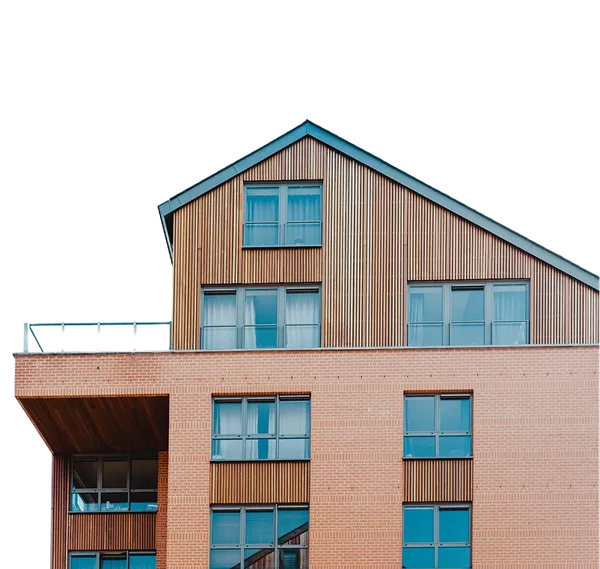
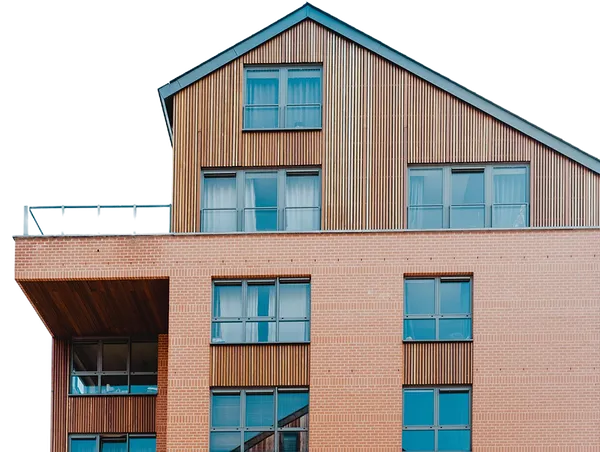
Updates

diff --git a/css/index.min.css b/css/index.min.css
@@ -1,1 +1,1 @@
-*{padding:0;margin:0;border:0}*,:after,:before{box-sizing:border-box}:after,:before{display:inline-block}body,html{height:100%}body{line-height:1;scrollbar-gutter:stable;-ms-text-size-adjust:100%;-moz-text-size-adjust:100%;-webkit-text-size-adjust:100%;-webkit-font-smoothing:antialiased;-moz-osx-font-smoothing:grayscale}button,input,textarea{font-family:inherit;font-size:inherit;line-height:inherit;color:inherit;background-color:transparent}input,textarea{width:100%}label{display:inline-block}button,option,select{cursor:pointer}a{display:inline-block;color:inherit;text-decoration:none}li{list-style:none}img{max-width:100%;height:auto;vertical-align:middle}h1,h2,h3,h4,h5,h6{font-weight:inherit;font-size:inherit}address{font-style:normal}@font-face{font-family:Rubik;font-display:swap;src:url(../assets/fonts/Rubik.woff2) format("woff2");font-weight:400;font-style:normal}@font-face{font-family:rubik;font-display:swap;src:url(../assets/fonts/rubik-semi-bold.woff2) format("woff2");font-weight:400;font-style:normal}@font-face{font-family:Poppins_medium;font-display:swap;src:url(../assets/fonts/Poppins_medium.woff2) format("woff2");font-weight:400;font-style:normal}@font-face{font-family:Poppins;font-display:swap;src:url(../assets/fonts/Poppins.woff2) format("woff2");font-weight:400;font-style:normal}@font-face{font-family:Poppins;font-display:swap;src:url(../assets/fonts/Poppins-semibold.woff2) format("woff2");font-weight:600;font-style:normal}@font-face{font-family:Poppins;font-display:swap;src:url(../assets/fonts/Poppins-medium.woff2) format("woff2");font-weight:500;font-style:normal}@font-face{font-family:Poppins;font-display:swap;src:url(../assets/fonts/Poppins-bold.woff2) format("woff2");font-weight:700;font-style:normal}@font-face{font-family:iconfont;font-display:swap;src:url(../assets/fonts/iconfont.woff2?6eb25e4e93d871e60afaaca793b40817) format("woff2")}[class*="--icon-"]:before{font-family:iconfont}[class*="--icon-arrow_circle"]:before{content:"\f101"}[class*="--icon-facebook"]:before{content:"\f102"}[class*="--icon-insta"]:before{content:"\f103"}[class*="--icon-insta_"]:before{content:"\f104"}[class*="--icon-youtube"]:before{content:"\f105"}:root{--font-family:"Poppins", sans-serif;--font-size:1rem;--font-rubik:"Rubik", sans-serif;--color-text:#73788c;--color-textcard:#a6a6a6;--color-title:#054457;--color-area:#021b22;--color-label:#69b99d;--color-button:#fefeff;--color-border:#e0e0e3;--color-test:#ac130b;--color-text-footer:#575757;--bg-main-color:#fefeff;--bg-second-color:#eee;--bg-button:#f6f6f6;--bg-label:#f6f6f6;--bg-advantes:#f5f5f5;--bg-footer:#ddd;--color-hover:#097b5d;--color-border:#dedcda}body{color:var(--color-text);font-family:var(--font-family);font-size:var(--font-size);min-width:20rem}[data-fls-scrolllock] body{overflow:hidden;touch-action:none;overscroll-behavior:none}.wrapper{min-height:100%;display:flex;flex-direction:column;overflow:clip}.wrapper>main{flex:1 1 auto}.wrapper>*{min-width:0}[class*=__container]{max-width:76.625rem;margin:0 auto;padding-left:.9375rem;padding-right:.9375rem}.hero{border:.0625rem solid green}.hero__container{display:flex;min-height:50.375rem;align-items:center;background-color:var(--bg-label);border:.125rem solid #0606e6}.hero__content{flex:0 0 50%}.hero__block-img{flex:0 0 60%;margin-top:-5rem}.hero__image{max-width:100%;height:auto}.titleblock__title--big span{display:block}.discover__container{margin-top:6.8125rem;margin-bottom:7.625rem}.discover__block-text{background-color:green}.discover-card__content{padding-top:2.5625rem;display:flex;flex-direction:row}.advantes-block{border:.0625rem solid green}.advantes-block__container{border:.125rem solid #0606e6;background-color:var(--bg-label)}.advantes-block__titleblock{padding-top:5rem;padding-bottom:3rem}.cards{padding-bottom:5rem}.cards__content{display:grid;gap:2rem;grid-template-columns:repeat(auto-fill,minmax(min(23.125rem,100%),1fr))}.about-us{border:.0625rem solid green}.about-us__container{margin-top:13.6875rem;margin-bottom:7.5rem;border:.125rem solid #0606e6}.about-us__content{display:flex;align-items:center;gap:3.5rem;width:100%}.about-us__image{flex:0 0 calc(50% - 1.25rem);max-width:calc(50% - 1.25rem);width:100%}.about-us__img{width:100%;height:auto;object-fit:cover}.about-us .titleblock{margin-bottom:3rem}.about-say{border:.0625rem solid green}.about-say__container{border:.125rem solid #0606e6;margin-bottom:7.6875rem}.cards-say{display:flex;gap:2rem;margin-top:2.8125rem}.titleblock{display:flex;flex-direction:column;align-items:flex-start;gap:1rem;width:100%}.titleblock--big{max-width:36.875rem}.titleblock--button{display:flex;flex-direction:row;justify-content:space-between;align-items:center;width:100%}.titleblock__label{display:inline-flex;justify-content:center;align-items:center;font-family:var(--font-family);font-weight:500;font-size:1.125rem;line-height:1.44;letter-spacing:.0375rem;text-transform:uppercase;color:var(--color-label);padding:.75rem 1.5rem;background-color:var(--bg-button)}.titleblock__label--big{margin-bottom:1rem}.titleblock__title{font-family:var(--font-rubik);color:var(--color-title);font-weight:600;line-height:1.16}.titleblock__title--big{max-width:36.25rem;margin-bottom:.5rem;line-height:1.17}.titleblock .titleblock__title--big span{display:block}.titleblock__text{font-family:var(--font-family);color:var(--color-text);font-size:1rem;line-height:1.7;letter-spacing:.0375rem}.titleblock__text--button{max-width:34.375rem}[data-fls-spollers] summary{list-style:none}[data-fls-spollers] summary::-webkit-details-marker,[data-fls-spollers] summary::marker{display:none}.spollers{display:grid;gap:.9375rem}.spollers__item{font-size:1.25rem}.spollers__title{width:100%;cursor:default;text-align:left;border:.0625rem solid #eee;padding:.625rem .9375rem;border-radius:.3125rem;position:relative;list-style:none}.spollers__title::-webkit-details-marker,.spollers__title::marker{display:none}.--spoller-init .spollers__title{cursor:pointer}.--spoller-init .spollers__title:after,.--spoller-init .spollers__title:before{content:"";position:absolute;right:.625rem;top:50%;background-color:#000;height:.125rem;width:.9375rem;transition:transform .5s ease 0s}.--spoller-init .spollers__title:before{transform:translate(-75%,-50%) rotate(40deg)}.--spoller-init .spollers__title:after{transform:translateY(-50%) rotate(-40deg)}.--spoller-init .spollers__title.--spoller-active:before{transform:translateX(-75%) rotate(-40deg)}.--spoller-init .spollers__title.--spoller-active:after{transform:rotate(40deg)}.spollers__body{padding:1.25rem;border-radius:.3125rem;border:.0625rem solid #eee}.menu__list{display:flex;flex-wrap:wrap;gap:4.0625rem;border:.0625rem solid #0643de}.menu__link{font-family:var(--font-family);color:var(--color-area);font-weight:500;font-size:1.125rem;line-height:1.44;letter-spacing:.03rem;position:relative;transition:color .5s}.menu__link:after{content:"";position:absolute;left:50%;bottom:0;width:0;height:.03125rem;background-color:var(--color-area);transition:width .3s,left .3s}.menu__link--active:after{width:100%;left:0;background-color:var(--color-area)}.icon-menu{display:none}.header{position:fixed;top:2rem;border:.125rem solid green;left:0;right:0;z-index:50;pointer-events:none;transition:translate .8s,top .8s}.header__container{border:.0625rem solid #0643de;pointer-events:auto}.header__body{display:flex;justify-content:space-between;gap:4.6875rem;align-items:center;padding:.4375rem 0;position:relative;background-color:var(--bg-label)}.header__logo{height:auto}.header__blockbutton{display:flex}[data-fls-header-scroll].--header-scroll{position:sticky;top:0;right:0;left:0;z-index:50}[data-fls-header-scroll-show].--header-scroll{transition:translate .3s;translate:0 -100%}[data-fls-header-scroll-show].--header-show{translate:0 0}.footer{font-family:var(--font-family)}.footer,.footer__container{background-color:var(--bg-footer)}.footer__container{margin-top:4.875rem}.footer__body{border:.0625rem solid red;display:flex}.body-footer{display:flex;justify-content:space-between}.body-footer__content{display:flex;background-color:#b3e87b}.body-footer__menus{display:flex;flex-grow:1;flex-wrap:wrap;background-color:#ac7d7d}.body-footer__menu{flex-grow:1;border:.0625rem solid #adff2f}.body-footer__title{color:var(--color-title);font-weight:500;font-size:1.25rem;line-height:1.4;letter-spacing:.0625rem}.--spoller-init .body-footer__title{display:flex;gap:.4375rem;align-items:center}.--spoller-init .body-footer__title:after{font-size:.625rem;rotate:180deg;color:var(--text-default);transition:rotate .3s;content:"\f112";font-family:iconfont}.--spoller-active .body-footer__title:after{rotate:0deg}.body-footer__item:not(:last-child){margin-bottom:1rem}.body-footer__link{color:var(--color-text-footer);font-family:var(--font-family);font-size:1rem;line-height:1.5;font-weight:500;transition:color .3s}.content-footer{display:flex;flex-direction:column}.content-footer__form,.form-contacts__header{display:flex;flex-direction:column;gap:1rem}.form-contacts__label{max-width:22.5rem}.form-contacts__title{font-weight:500;font-size:1.25rem;line-height:1.4}.form-contacts__body{display:flex;justify-content:space-between;border:.125rem solid var(--color-textcard);align-items:center}.form-contacts__line{font-weight:400;font-size:1rem;line-height:1.63;letter-spacing:.03rem;padding-left:1.0625rem}.social-block__social{display:flex;flex-direction:column;gap:1rem;text-align:center}.social-block__title{color:var(--color-title);font-weight:500;font-size:1.25rem;line-height:1.4;letter-spacing:.0625rem;padding-bottom:.625rem}.bottom-footer{display:flex;justify-content:space-between;align-items:center;gap:1.25rem}.bottom-footer__arrow{background-color:var(--bg-main-color);display:flex;gap:1.25rem;border:.125rem solid var(--color-textcard)}input[type=email],input[type=tel],input[type=text],textarea{-webkit-appearance:none;-moz-appearance:none;appearance:none}.input{border-radius:0!important;width:100%;display:block;padding:.625rem;border:.0625rem solid #eee;caret-color:inherit}.input[placeholder]:not([data-fls-placeholder-nohiden])::placeholder{transition:opacity .3s}.input[placeholder]:not([data-fls-placeholder-nohiden]):focus::placeholder{opacity:0}textarea.input{resize:vertical;padding:0}.button{display:inline-flex;justify-content:center;align-items:center;white-space:nowrap;font-family:var(--font-family);font-weight:500;line-height:1.5;color:var(--color-label);background-color:var(--color-button);padding:1rem 3rem;border:.0625rem solid var(--color-border);transition:all .5s}.button--fw{width:100%}.button--login{color:var(--color-button);background-color:var(--color-label)}.button--learn{padding:.75rem 1.5rem;gap:.5rem;color:var(--color-label);background-color:var(--bg-button)}.button--learn:after{content:"\f101";font-family:iconfont;font-size:1.25rem;color:inherit;transition:transform .3s ease}.button--send{padding:.75rem 7.625rem;border:.0625rem solid var(--color-label);color:var(--color-label);background-color:var(--bg-button)}.button--learn-big{padding:1.125rem 3rem;color:var(--color-button);background-color:var(--color-label);box-shadow:1.5rem 1.5rem 4.0625rem 0 rgba(81,140,119,.24)}.button--to-top{gap:1.25rem;font-size:1.25rem;color:var(--color-label);background-color:var(--bg-button)}.button--to-top:after{content:"\f101";font-family:iconfont;font-size:1.25rem;color:inherit;transition:transform .3s ease}.propertycard{display:flex;flex-direction:column;align-items:stretch;border:.0625rem solid var(--color-border);font-family:var(--font-family)}.propertycard__link-image{aspect-ratio:344/238}.propertycard__image{width:100%;height:100%;object-fit:cover}.propertycard__body{display:flex;flex-direction:column;gap:.125rem;flex-grow:1}.propertycard__title{color:var(--color-title);font-weight:600;line-height:1.33;align-items:flex-start;min-height:3.9rem}.propertycard__text{color:var(--color-textcard);font-weight:400;font-size:1rem;line-height:1.63;margin-bottom:1rem}.propertycard__details{margin-bottom:.5rem}.propertycard__button{border:.0625rem solid var(--color-label);color:var(--color-label);font-size:1rem;padding:.75rem 3rem;font-weight:500;line-height:1.5;transition:all .3s;text-align:center}.details-price{display:flex;flex-direction:row}.details-price__price{font-family:var(--font-family);color:var(--color-label);font-weight:600;font-size:1.5rem;line-height:1.33}.area-price{display:flex;flex-direction:row;gap:.625rem;align-items:center;padding:.25rem .5rem;background-color:var(--bg-label);font-family:var(--font-family);font-weight:400;font-size:1rem;line-height:1.5}.area-price__area-value{color:var(--color-area)}.area-price__area-label{color:var(--color-textcard)}.advantes{background-color:var(--bg-advantes) 70%;font-family:var(--font-family)}.advantes__container{display:flex;flex-direction:column;gap:1rem}.advantes__icon{width:3.375rem;height:3.375rem;display:flex;align-items:center;justify-content:center}.advantes__icon img{width:2.8125rem;height:2.8125rem}.advantes__title{font-weight:700;line-height:1.36;letter-spacing:.02rem;color:var(--color-title)}.advantes__subtitle{color:var(--color-text);font-weight:400;font-size:1rem;line-height:1.63;letter-spacing:.03rem}.about{border:.0625rem solid var(--color-border);font-family:var(--font-family)}.about__container{gap:1.5rem}.about__body,.about__container{display:flex;flex-direction:column}.about__body{gap:1rem}.about__title{color:var(--color-area);font-weight:600;font-size:1.125rem;line-height:1.56}.about__text{color:var(--color-area);font-weight:400;font-size:1rem;line-height:1.5}.author-reviews{display:flex;flex-direction:row;gap:.75rem}.author-reviews__body{display:flex;flex-direction:column;gap:.25rem}.author-reviews__name{font-family:Nunito Sans,sans-serif;font-weight:600;font-size:1rem;line-height:163%;letter-spacing:.03em;color:#0b2e29}.author-reviews__position{color:var(--color-text);font-weight:400;font-size:.75rem;line-height:1.83;letter-spacing:.04rem}@media (max-width:70.4375rem){.menu__list{flex-wrap:nowrap;gap:1.5rem}.header__logo{margin-right:.125rem}.button{padding:.875rem 1.875rem;font-size:.875rem}}@media (max-width:67em){.details-price{flex-direction:column}.area-price{padding:0 .5rem}}@media (max-width:67em) and (width < 20em){.details-price{gap:.875rem}}@media (max-width:62em){.menu__list{flex-wrap:nowrap;gap:1.125rem}}@media (max-width:54.5rem){.button{padding-top:.625rem;padding-bottom:.625rem}}@media (max-width:54.5rem) and (width < 20em){.button{padding-left:.5rem;padding-right:.5rem}}@media (max-width:53.0625rem){.menu__link{font-size:1rem}}@media (max-width:48em) and (any-hover:none){.icon-menu{cursor:default}}@media (max-width:48em){.hero__container{gap:.625rem;justify-content:center;min-height:auto;padding-top:9.0625rem}.discover-card__content,.hero__container,.titleblock{flex-direction:column}.titleblock{display:flex;align-items:flex-start}.menu{flex-grow:1}.menu__body{height:100svh;left:100%;overflow:auto;padding:6.25rem 1.5625rem 1.875rem .9375rem;background-color:rgba(238,240,240,.8)}.menu__body,.menu__body:before{position:fixed;width:100%;top:0;transition:left .3s}.menu__body:before{content:"";height:4.375rem;left:-100%;z-index:2}[data-fls-menu-open] .menu__body,[data-fls-menu-open] .menu__body:before{left:0}.menu__list{gap:.9375rem 1.25rem;flex-direction:column;align-items:flex-end}.menu__link{font-size:1.25rem}.icon-menu{display:block;position:relative;width:1.875rem;height:1.125rem;z-index:5}.icon-menu span,.icon-menu:after,.icon-menu:before{content:"";transition:all .3s ease 0s;right:0;position:absolute;width:100%;height:.125rem;background-color:var(--color-area)}.icon-menu:before{top:0}.icon-menu:after{bottom:0}.icon-menu span{top:calc(50% - .0625rem)}[data-fls-menu-open] .icon-menu span{width:0}[data-fls-menu-open] .icon-menu:before{top:calc(50% - .0625rem);transform:rotate(-45deg)}[data-fls-menu-open] .icon-menu:after{bottom:calc(50% - .0625rem);transform:rotate(45deg)}.header{top:.9375rem}.header__body{gap:2.1875rem;padding:.3125rem}.body-footer__menus{justify-content:center}.bottom-footer,.content-footer{align-items:center;text-align:center}.bottom-footer{flex-direction:column;justify-content:center}.propertycard__title{min-height:1.95rem}.details-price{flex-direction:column}}@media (max-width:31.25em){.body-footer__menu,.body-footer__menus{flex-direction:column;align-items:center}.body-footer__menu{display:flex;justify-content:center;text-align:center}}@media (width < 20em){.discover-card__content{gap:1.25rem}.titleblock__title,.titleblock__title--big{font-size:2.25rem}.header__blockbutton{gap:.125rem}.body-footer{gap:6.25rem}.body-footer__menus{row-gap:1.25rem}.body-footer__list{padding-top:.875rem}.content-footer{gap:.875rem}.button{font-size:.875rem}.propertycard{padding:.75rem;gap:.75rem}.propertycard__title{font-size:1.25rem}.details-price{gap:1rem}.advantes__container{padding:1.125rem}.advantes__title{font-size:1.25rem}.about{padding:1rem}}@media (max-width:54.5rem) and (width >= 76.625em){.button{padding-left:1.25rem;padding-right:1.25rem}}@media (max-width:67em) and (width >= 76.625em){.details-price{gap:1rem}}@media (width >= 20em) and (width < 76.625em){.discover-card__content{gap:clamp(1.25rem,.94095rem + 1.54525vw,2.125rem)}.titleblock__title{font-size:clamp(2.25rem,1.9851rem + 1.3245vw,3rem)}.titleblock__title--big{font-size:clamp(2.25rem,1.6319rem + 3.09051vw,4rem)}.header__blockbutton{gap:clamp(.125rem,.01462rem + .55188vw,.4375rem)}.body-footer{gap:clamp(6.25rem,5.41115rem + 4.19426vw,8.625rem)}.body-footer__menus{row-gap:clamp(1.25rem,-1.79636rem + 15.23179vw,9.875rem)}.body-footer__list{padding-top:clamp(.875rem,.83085rem + .22075vw,1rem)}.content-footer{gap:clamp(.875rem,.74255rem + .66225vw,1.25rem)}.button{font-size:clamp(.875rem,.83085rem + .22075vw,1rem)}.propertycard{padding:clamp(.75rem,.6617rem + .4415vw,1rem);gap:clamp(.75rem,.6617rem + .4415vw,1rem)}.propertycard__title{font-size:clamp(1.25rem,1.1617rem + .4415vw,1.5rem)}.details-price{gap:clamp(1rem,.6468rem + 1.766vw,2rem)}.advantes__container{padding:clamp(1.125rem,1.01462rem + .55188vw,1.4375rem)}.advantes__title{font-size:clamp(1.25rem,1.1617rem + .4415vw,1.5rem)}.about{padding:clamp(1rem,.8234rem + .883vw,1.5rem)}}@media (min-width:48em){.menu{position:relative;z-index:5}.header{top:3rem;display:flex;justify-content:center}}@media (max-width:54.5rem) and (width >= 20em) and (width < 76.625em){.button{padding-left:clamp(.5rem,.2351rem + 1.3245vw,1.25rem);padding-right:clamp(.5rem,.2351rem + 1.3245vw,1.25rem)}}@media (max-width:67em) and (width >= 20em) and (width < 76.625em){.details-price{gap:clamp(.875rem,.83085rem + .22075vw,1rem)}}@media (width >= 76.625em){.discover-card__content{gap:2.125rem}.titleblock__title{font-size:3rem}.titleblock__title--big{font-size:4rem}.header__blockbutton{gap:.4375rem}.body-footer{gap:8.625rem}.body-footer__menus{row-gap:9.875rem}.body-footer__list{padding-top:1rem}.content-footer{gap:1.25rem}.button{font-size:1rem}.propertycard{padding:1rem;gap:1rem}.propertycard__title{font-size:1.5rem}.details-price{gap:2rem}.advantes__container{padding:1.4375rem}.advantes__title{font-size:1.5rem}.about{padding:1.5rem}}@media (any-hover:hover){.menu__link:hover{color:var(--color-hover)}.menu__link:hover:after{width:100%;left:0;background-color:var(--color-hover)}.button--login:hover,.button:hover{box-shadow:0 0 .75rem var(--color-label)}.button--learn-big:hover,.button--login:hover,.button:hover{color:var(--color-button);background-color:var(--color-hover)}.propertycard__button:hover{background-color:var(--color-label);color:var(--color-button);box-shadow:0 0 .75rem var(--color-label)}}@media (any-hover:hover),(pointer:fine){.body-footer__link:hover{color:var(--color-hover)}.propertycard__link-title:hover{text-decoration:underline;text-decoration-thickness:.125rem}}
+*{padding:0;margin:0;border:0}*,:after,:before{box-sizing:border-box}:after,:before{display:inline-block}body,html{height:100%}body{line-height:1;scrollbar-gutter:stable;-ms-text-size-adjust:100%;-moz-text-size-adjust:100%;-webkit-text-size-adjust:100%;-webkit-font-smoothing:antialiased;-moz-osx-font-smoothing:grayscale}button,input,textarea{font-family:inherit;font-size:inherit;line-height:inherit;color:inherit;background-color:transparent}input,textarea{width:100%}label{display:inline-block}button,option,select{cursor:pointer}a{display:inline-block;color:inherit;text-decoration:none}li{list-style:none}img{max-width:100%;height:auto;vertical-align:middle}h1,h2,h3,h4,h5,h6{font-weight:inherit;font-size:inherit}address{font-style:normal}@font-face{font-family:Rubik;font-display:swap;src:url(../assets/fonts/Rubik.woff2) format("woff2");font-weight:400;font-style:normal}@font-face{font-family:rubik;font-display:swap;src:url(../assets/fonts/rubik-semi-bold.woff2) format("woff2");font-weight:400;font-style:normal}@font-face{font-family:Poppins_medium;font-display:swap;src:url(../assets/fonts/Poppins_medium.woff2) format("woff2");font-weight:400;font-style:normal}@font-face{font-family:Poppins;font-display:swap;src:url(../assets/fonts/Poppins.woff2) format("woff2");font-weight:400;font-style:normal}@font-face{font-family:Poppins;font-display:swap;src:url(../assets/fonts/Poppins-semibold.woff2) format("woff2");font-weight:600;font-style:normal}@font-face{font-family:Poppins;font-display:swap;src:url(../assets/fonts/Poppins-medium.woff2) format("woff2");font-weight:500;font-style:normal}@font-face{font-family:Poppins;font-display:swap;src:url(../assets/fonts/Poppins-bold.woff2) format("woff2");font-weight:700;font-style:normal}@font-face{font-family:iconfont;font-display:swap;src:url(../assets/fonts/iconfont.woff2?6eb25e4e93d871e60afaaca793b40817) format("woff2")}[class*="--icon-"]:before{font-family:iconfont}[class*="--icon-arrow_circle"]:before{content:"\f101"}[class*="--icon-facebook"]:before{content:"\f102"}[class*="--icon-insta"]:before{content:"\f103"}[class*="--icon-insta_"]:before{content:"\f104"}[class*="--icon-youtube"]:before{content:"\f105"}:root{--font-family:"Poppins", sans-serif;--font-size:1rem;--font-rubik:"Rubik", sans-serif;--color-text:#73788c;--color-textcard:#a6a6a6;--color-title:#054457;--color-area:#021b22;--color-label:#69b99d;--color-button:#fefeff;--color-border:#e0e0e3;--color-test:#ac130b;--color-text-footer:#575757;--bg-main-color:#fefeff;--bg-second-color:#eee;--bg-button:#f6f6f6;--bg-label:#f6f6f6;--bg-advantes:#f5f5f5;--bg-footer:#ddd;--color-hover:#097b5d;--color-border:#dedcda}body{color:var(--color-text);font-family:var(--font-family);font-size:var(--font-size);min-width:20rem}[data-fls-scrolllock] body{overflow:hidden;touch-action:none;overscroll-behavior:none}.wrapper{min-height:100%;display:flex;flex-direction:column;overflow:clip}.wrapper>main{flex:1 1 auto}.wrapper>*{min-width:0}[class*=__container]{max-width:76.625rem;margin:0 auto;padding-left:.9375rem;padding-right:.9375rem}.hero__container{display:flex;align-items:center;background-color:var(--bg-label);padding-top:15.625rem}.hero__content{flex:0 0 50%}.hero__block-img{flex:0 0 70%}.hero__image{max-width:100%;height:auto}.titleblock__title--big span{display:block}.discover__container{margin-top:6.25rem;margin-bottom:7.625rem}.discover__block-text{background-color:green}.discover-card__content{padding-top:2.5625rem;display:flex;flex-direction:row}.advantes-block{border:.0625rem solid green}.advantes-block__container{border:.125rem solid #0606e6;background-color:var(--bg-label)}.advantes-block__titleblock{padding-top:5rem;padding-bottom:3rem}.cards{padding-bottom:5rem}.cards__content{display:grid;gap:2rem;grid-template-columns:repeat(auto-fill,minmax(min(23.125rem,100%),1fr))}.about-us{border:.0625rem solid green}.about-us__container{margin-top:13.6875rem;margin-bottom:7.5rem;border:.125rem solid #0606e6}.about-us__content{display:flex;align-items:center;gap:3.5rem;width:100%}.about-us__image{flex:0 0 calc(50% - 1.25rem);max-width:calc(50% - 1.25rem);width:100%}.about-us__img{width:100%;height:auto;object-fit:cover}.about-us .titleblock{margin-bottom:3rem}.about-say{border:.0625rem solid green}.about-say__container{border:.125rem solid #0606e6;margin-bottom:7.6875rem}.cards-say{display:flex;gap:2rem;margin-top:2.8125rem}.titleblock{display:flex;flex-direction:column;align-items:flex-start;gap:1rem;width:100%}.titleblock--big{max-width:36.875rem}.titleblock--button{display:flex;flex-direction:row;justify-content:space-between;align-items:center;width:100%}.titleblock__label{display:inline-flex;justify-content:center;align-items:center;font-family:var(--font-family);font-weight:500;font-size:1.125rem;line-height:1.44;letter-spacing:.0375rem;text-transform:uppercase;color:var(--color-label);padding:.75rem 1.5rem;background-color:var(--bg-button)}.titleblock__label--big{margin-bottom:1rem;background-color:var(--bg-main-color)}.titleblock__title{font-family:var(--font-rubik);color:var(--color-title);font-weight:600;line-height:1.16}.titleblock__title--big{max-width:36.25rem;white-space:nowrap;margin-bottom:.5rem;line-height:1.17}.titleblock .titleblock__title--big span{display:block}.titleblock__text{font-family:var(--font-family);color:var(--color-text);font-size:1rem;line-height:1.7;letter-spacing:.0375rem}.titleblock__text--button{max-width:34.375rem}[data-fls-spollers] summary{list-style:none}[data-fls-spollers] summary::-webkit-details-marker,[data-fls-spollers] summary::marker{display:none}.spollers{display:grid;gap:.9375rem}.spollers__item{font-size:1.25rem}.spollers__title{width:100%;cursor:default;text-align:left;border:.0625rem solid #eee;padding:.625rem .9375rem;border-radius:.3125rem;position:relative;list-style:none}.spollers__title::-webkit-details-marker,.spollers__title::marker{display:none}.--spoller-init .spollers__title{cursor:pointer}.--spoller-init .spollers__title:after,.--spoller-init .spollers__title:before{content:"";position:absolute;right:.625rem;top:50%;background-color:#000;height:.125rem;width:.9375rem;transition:transform .5s ease 0s}.--spoller-init .spollers__title:before{transform:translate(-75%,-50%) rotate(40deg)}.--spoller-init .spollers__title:after{transform:translateY(-50%) rotate(-40deg)}.--spoller-init .spollers__title.--spoller-active:before{transform:translateX(-75%) rotate(-40deg)}.--spoller-init .spollers__title.--spoller-active:after{transform:rotate(40deg)}.spollers__body{padding:1.25rem;border-radius:.3125rem;border:.0625rem solid #eee}.menu__list{display:flex;flex-wrap:wrap;gap:4.0625rem;border:.0625rem solid #0643de}.menu__link{font-family:var(--font-family);color:var(--color-area);font-weight:500;font-size:1.125rem;line-height:1.44;letter-spacing:.03rem;position:relative;transition:color .5s}.menu__link:after{content:"";position:absolute;left:50%;bottom:0;width:0;height:.03125rem;background-color:var(--color-area);transition:width .3s,left .3s}.menu__link--active:after{width:100%;left:0;background-color:var(--color-area)}.icon-menu{display:none}.header{position:fixed;top:2rem;border:.125rem solid green;left:0;right:0;z-index:50;pointer-events:none;transition:translate .8s,top .8s}.header__container{border:.0625rem solid #0643de;pointer-events:auto}.header__body{display:flex;justify-content:space-between;gap:4.6875rem;align-items:center;padding:.4375rem 0;position:relative;background-color:var(--bg-label)}.header__logo{height:auto}.header__blockbutton{display:flex}[data-fls-header-scroll].--header-scroll{position:sticky;top:0;right:0;left:0;z-index:50}[data-fls-header-scroll-show].--header-scroll{transition:translate .3s;translate:0 -100%}[data-fls-header-scroll-show].--header-show{translate:0 0}.footer{font-family:var(--font-family)}.footer,.footer__container{background-color:var(--bg-footer)}.footer__container{margin-top:4.875rem}.footer__body{border:.0625rem solid red;display:flex}.body-footer{display:flex;justify-content:space-between}.body-footer__content{display:flex;background-color:#b3e87b}.body-footer__menus{display:flex;flex-grow:1;flex-wrap:wrap;background-color:#ac7d7d}.body-footer__menu{flex-grow:1;border:.0625rem solid #adff2f}.body-footer__title{color:var(--color-title);font-weight:500;font-size:1.25rem;line-height:1.4;letter-spacing:.0625rem}.--spoller-init .body-footer__title{display:flex;gap:.4375rem;align-items:center}.--spoller-init .body-footer__title:after{font-size:.625rem;rotate:180deg;color:var(--text-default);transition:rotate .3s;content:"\f112";font-family:iconfont}.--spoller-active .body-footer__title:after{rotate:0deg}.body-footer__item:not(:last-child){margin-bottom:1rem}.body-footer__link{color:var(--color-text-footer);font-family:var(--font-family);font-size:1rem;line-height:1.5;font-weight:500;transition:color .3s}.content-footer{display:flex;flex-direction:column}.content-footer__form,.form-contacts__header{display:flex;flex-direction:column;gap:1rem}.form-contacts__label{max-width:22.5rem}.form-contacts__title{font-weight:500;font-size:1.25rem;line-height:1.4}.form-contacts__body{display:flex;justify-content:space-between;border:.125rem solid var(--color-textcard);align-items:center}.form-contacts__line{font-weight:400;font-size:1rem;line-height:1.63;letter-spacing:.03rem;padding-left:1.0625rem}.social-block__social{display:flex;flex-direction:column;gap:1rem;text-align:center}.social-block__title{color:var(--color-title);font-weight:500;font-size:1.25rem;line-height:1.4;letter-spacing:.0625rem;padding-bottom:.625rem}.bottom-footer{display:flex;justify-content:space-between;align-items:center;gap:1.25rem}.bottom-footer__arrow{background-color:var(--bg-main-color);display:flex;gap:1.25rem;border:.125rem solid var(--color-textcard)}input[type=email],input[type=tel],input[type=text],textarea{-webkit-appearance:none;-moz-appearance:none;appearance:none}.input{border-radius:0!important;width:100%;display:block;padding:.625rem;border:.0625rem solid #eee;caret-color:inherit}.input[placeholder]:not([data-fls-placeholder-nohiden])::placeholder{transition:opacity .3s}.input[placeholder]:not([data-fls-placeholder-nohiden]):focus::placeholder{opacity:0}textarea.input{resize:vertical;padding:0}.button{display:inline-flex;justify-content:center;align-items:center;white-space:nowrap;font-family:var(--font-family);font-weight:500;line-height:1.5;color:var(--color-label);background-color:var(--color-button);padding:1rem 3rem;border:.0625rem solid var(--color-border);transition:all .5s}.button--fw{width:100%}.button--login{color:var(--color-button);background-color:var(--color-label)}.button--learn{padding:.75rem 1.5rem;gap:.5rem;color:var(--color-label);background-color:var(--bg-button)}.button--learn:after{content:"\f101";font-family:iconfont;font-size:1.25rem;color:inherit;transition:transform .3s ease}.button--send{padding:.75rem 7.625rem;border:.0625rem solid var(--color-label);color:var(--color-label);background-color:var(--bg-button)}.button--learn-big{padding:1.125rem 3rem;color:var(--color-button);background-color:var(--color-label);box-shadow:1.5rem 1.5rem 4.0625rem 0 rgba(81,140,119,.24)}.button--to-top{gap:1.25rem;font-size:1.25rem;color:var(--color-label);background-color:var(--bg-button)}.button--to-top:after{content:"\f101";font-family:iconfont;font-size:1.25rem;color:inherit;transition:transform .3s ease}.propertycard{display:flex;flex-direction:column;align-items:stretch;border:.0625rem solid var(--color-border);font-family:var(--font-family)}.propertycard__link-image{aspect-ratio:344/238}.propertycard__image{width:100%;height:100%;object-fit:cover}.propertycard__body{display:flex;flex-direction:column;gap:.125rem;flex-grow:1}.propertycard__title{color:var(--color-title);font-weight:600;line-height:1.33;align-items:flex-start;min-height:3.9rem}.propertycard__text{color:var(--color-textcard);font-weight:400;font-size:1rem;line-height:1.63;margin-bottom:1rem}.propertycard__details{margin-bottom:.5rem}.propertycard__button{border:.0625rem solid var(--color-label);color:var(--color-label);font-size:1rem;padding:.75rem 3rem;font-weight:500;line-height:1.5;transition:all .3s;text-align:center}.details-price{display:flex;flex-direction:row}.details-price__price{font-family:var(--font-family);color:var(--color-label);font-weight:600;font-size:1.5rem;line-height:1.33}.area-price{display:flex;flex-direction:row;gap:.625rem;align-items:center;padding:.25rem .5rem;background-color:var(--bg-label);font-family:var(--font-family);font-weight:400;font-size:1rem;line-height:1.5}.area-price__area-value{color:var(--color-area)}.area-price__area-label{color:var(--color-textcard)}.advantes{background-color:var(--bg-advantes) 70%;font-family:var(--font-family)}.advantes__container{display:flex;flex-direction:column;gap:1rem}.advantes__icon{width:3.375rem;height:3.375rem;display:flex;align-items:center;justify-content:center}.advantes__icon img{width:2.8125rem;height:2.8125rem}.advantes__title{font-weight:700;line-height:1.36;letter-spacing:.02rem;color:var(--color-title)}.advantes__subtitle{color:var(--color-text);font-weight:400;font-size:1rem;line-height:1.63;letter-spacing:.03rem}.about{border:.0625rem solid var(--color-border);font-family:var(--font-family)}.about__container{gap:1.5rem}.about__body,.about__container{display:flex;flex-direction:column}.about__body{gap:1rem}.about__title{color:var(--color-area);font-weight:600;font-size:1.125rem;line-height:1.56}.about__text{color:var(--color-area);font-weight:400;font-size:1rem;line-height:1.5}.author-reviews{display:flex;flex-direction:row;gap:.75rem}.author-reviews__body{display:flex;flex-direction:column;gap:.25rem}.author-reviews__name{font-family:Nunito Sans,sans-serif;font-weight:600;font-size:1rem;line-height:163%;letter-spacing:.03em;color:#0b2e29}.author-reviews__position{color:var(--color-text);font-weight:400;font-size:.75rem;line-height:1.83;letter-spacing:.04rem}@media (max-width:70.4375rem){.menu__list{flex-wrap:nowrap;gap:1.5rem}.header__logo{margin-right:.125rem}.button{padding:.875rem 1.875rem;font-size:.875rem}}@media (max-width:68.75em){.hero__container{padding-top:11.25rem}.hero__content{flex:0 0 30%}.hero__block-img{flex:0 0 60%}}@media (max-width:67em){.details-price{flex-direction:column}.area-price{padding:0 .5rem}}@media (max-width:67em) and (width < 20em){.details-price{gap:.875rem}}@media (max-width:62em){.menu__list{flex-wrap:nowrap;gap:1.125rem}}@media (max-width:54.5rem){.button{padding-top:.625rem;padding-bottom:.625rem}}@media (max-width:54.5rem) and (width < 20em){.button{padding-left:.5rem;padding-right:.5rem}}@media (max-width:53.0625rem){.menu__link{font-size:1rem}}@media (max-width:48em) and (any-hover:none){.icon-menu{cursor:default}}@media (max-width:48em){.hero__container{flex-direction:column;gap:1.25rem;justify-content:center;min-height:auto;padding-top:7.1875rem}.discover__container{margin-top:3.75rem}.discover-card__content,.titleblock{flex-direction:column}.titleblock{display:flex;align-items:flex-start}.menu{flex-grow:1}.menu__body{height:100svh;left:100%;overflow:auto;padding:6.25rem 1.5625rem 1.875rem .9375rem;background-color:rgba(238,240,240,.8)}.menu__body,.menu__body:before{position:fixed;width:100%;top:0;transition:left .3s}.menu__body:before{content:"";height:4.375rem;left:-100%;z-index:2}[data-fls-menu-open] .menu__body,[data-fls-menu-open] .menu__body:before{left:0}.menu__list{gap:.9375rem 1.25rem;flex-direction:column;align-items:flex-end}.menu__link{font-size:1.25rem}.icon-menu{display:block;position:relative;width:1.875rem;height:1.125rem;z-index:5}.icon-menu span,.icon-menu:after,.icon-menu:before{content:"";transition:all .3s ease 0s;right:0;position:absolute;width:100%;height:.125rem;background-color:var(--color-area)}.icon-menu:before{top:0}.icon-menu:after{bottom:0}.icon-menu span{top:calc(50% - .0625rem)}[data-fls-menu-open] .icon-menu span{width:0}[data-fls-menu-open] .icon-menu:before{top:calc(50% - .0625rem);transform:rotate(-45deg)}[data-fls-menu-open] .icon-menu:after{bottom:calc(50% - .0625rem);transform:rotate(45deg)}.header{top:.9375rem}.header__body{gap:2.1875rem;padding:.3125rem}.body-footer__menus{justify-content:center}.bottom-footer,.content-footer{align-items:center;text-align:center}.bottom-footer{flex-direction:column;justify-content:center}.propertycard__title{min-height:1.95rem}.details-price{flex-direction:column;gap:.3125rem}}@media (max-width:31.25em){.body-footer__menu,.body-footer__menus{flex-direction:column;align-items:center}.body-footer__menu{display:flex;justify-content:center;text-align:center}}@media (width < 20em){.discover-card__content{gap:1.625rem}.titleblock__title{font-size:2.25rem}.titleblock__title--big{font-size:1.875rem}.header__blockbutton{gap:.125rem}.body-footer{gap:6.25rem}.body-footer__menus{row-gap:1.25rem}.body-footer__list{padding-top:.875rem}.content-footer{gap:.875rem}.button{font-size:.875rem}.propertycard{padding:.75rem;gap:.75rem}.propertycard__title{font-size:1.25rem}.details-price{gap:1rem}.advantes__container{padding:1.125rem}.advantes__title{font-size:1.25rem}.about{padding:1rem}}@media (max-width:54.5rem) and (width >= 76.625em){.button{padding-left:1.25rem;padding-right:1.25rem}}@media (max-width:67em) and (width >= 76.625em){.details-price{gap:1rem}}@media (width >= 20em) and (width < 76.625em){.discover-card__content{gap:clamp(1.625rem,1.4484rem + .883vw,2.125rem)}.titleblock__title{font-size:clamp(2.25rem,1.9851rem + 1.3245vw,3rem)}.titleblock__title--big{font-size:clamp(1.875rem,1.12445rem + 3.75276vw,4rem)}.header__blockbutton{gap:clamp(.125rem,.01462rem + .55188vw,.4375rem)}.body-footer{gap:clamp(6.25rem,5.41115rem + 4.19426vw,8.625rem)}.body-footer__menus{row-gap:clamp(1.25rem,-1.79636rem + 15.23179vw,9.875rem)}.body-footer__list{padding-top:clamp(.875rem,.83085rem + .22075vw,1rem)}.content-footer{gap:clamp(.875rem,.74255rem + .66225vw,1.25rem)}.button{font-size:clamp(.875rem,.83085rem + .22075vw,1rem)}.propertycard{padding:clamp(.75rem,.6617rem + .4415vw,1rem);gap:clamp(.75rem,.6617rem + .4415vw,1rem)}.propertycard__title{font-size:clamp(1.25rem,1.1617rem + .4415vw,1.5rem)}.details-price{gap:clamp(1rem,.6468rem + 1.766vw,2rem)}.advantes__container{padding:clamp(1.125rem,1.01462rem + .55188vw,1.4375rem)}.advantes__title{font-size:clamp(1.25rem,1.1617rem + .4415vw,1.5rem)}.about{padding:clamp(1rem,.8234rem + .883vw,1.5rem)}}@media (min-width:48em){.menu{position:relative;z-index:5}.header{top:3rem;display:flex;justify-content:center}}@media (max-width:54.5rem) and (width >= 20em) and (width < 76.625em){.button{padding-left:clamp(.5rem,.2351rem + 1.3245vw,1.25rem);padding-right:clamp(.5rem,.2351rem + 1.3245vw,1.25rem)}}@media (max-width:67em) and (width >= 20em) and (width < 76.625em){.details-price{gap:clamp(.875rem,.83085rem + .22075vw,1rem)}}@media (width >= 76.625em){.discover-card__content{gap:2.125rem}.titleblock__title{font-size:3rem}.titleblock__title--big{font-size:4rem}.header__blockbutton{gap:.4375rem}.body-footer{gap:8.625rem}.body-footer__menus{row-gap:9.875rem}.body-footer__list{padding-top:1rem}.content-footer{gap:1.25rem}.button{font-size:1rem}.propertycard{padding:1rem;gap:1rem}.propertycard__title{font-size:1.5rem}.details-price{gap:2rem}.advantes__container{padding:1.4375rem}.advantes__title{font-size:1.5rem}.about{padding:1.5rem}}@media (any-hover:hover){.menu__link:hover{color:var(--color-hover)}.menu__link:hover:after{width:100%;left:0;background-color:var(--color-hover)}.button--login:hover,.button:hover{box-shadow:0 0 .75rem var(--color-label)}.button--learn-big:hover,.button--login:hover,.button:hover{color:var(--color-button);background-color:var(--color-hover)}.propertycard__button:hover{background-color:var(--color-label);color:var(--color-button);box-shadow:0 0 .75rem var(--color-label)}}@media (any-hover:hover),(pointer:fine){.body-footer__link:hover{color:var(--color-hover)}.propertycard__link-title:hover{text-decoration:underline;text-decoration-thickness:.125rem}}

diff --git a/css/dev/index.css b/css/dev/index.css
@@ -170,22 +170,17 @@ body {
   padding-right: 0.9375rem;
 }
 /* Generated by vite-plugin-svg-spritemap */
-.hero {
-  border: 0.0625rem solid green;
-}
 .hero__container {
   display: flex;
-  min-height: 50.375rem;
   align-items: center;
   background-color: var(--bg-label);
-  border: 0.125rem solid rgb(6, 6, 230);
+  padding-top: 15.625rem;
 }
 .hero__content {
   flex: 0 0 50%;
 }
 .hero__block-img {
-  flex: 0 0 60%;
-  margin-top: -5rem;
+  flex: 0 0 70%;
 }
 .hero__image {
   max-width: 100%;
@@ -197,7 +192,7 @@ body {
 }
 
 .discover__container {
-  margin-top: 6.8125rem;
+  margin-top: 6.25rem;
   margin-bottom: 7.625rem;
 }
 .discover__block-text {
@@ -303,6 +298,7 @@ body {
 }
 .titleblock__label--big {
   margin-bottom: 1rem;
+  background-color: var(--bg-main-color);
 }
 .titleblock__title {
   font-family: var(--font-rubik);
@@ -316,6 +312,7 @@ body {
   max-width: 36.25rem;
 }
 .titleblock__title--big {
+  white-space: nowrap;
   margin-bottom: 0.5rem;
   line-height: 1.17;
 }
@@ -875,6 +872,16 @@ textarea.input {
     padding: 0.875rem 1.875rem;
     font-size: 0.875rem;
   }
+}@media (max-width: 68.75em){
+  .hero__container {
+    padding-top: 11.25rem;
+  }
+  .hero__content {
+    flex: 0 0 30%;
+  }
+  .hero__block-img {
+    flex: 0 0 60%;
+  }
 }@media (max-width: 67em){
   .details-price {
     flex-direction: column;
@@ -914,10 +921,13 @@ textarea.input {
 }@media (max-width: 48em){
   .hero__container {
     flex-direction: column;
-    gap: 0.625rem;
+    gap: 1.25rem;
     justify-content: center;
     min-height: auto;
-    padding-top: 9.0625rem;
+    padding-top: 7.1875rem;
+  }
+  .discover__container {
+    margin-top: 3.75rem;
   }
   .discover-card__content {
     flex-direction: column;
@@ -1026,6 +1036,7 @@ textarea.input {
   }
   .details-price {
     flex-direction: column;
+    gap: 0.3125rem;
   }
 }@media (max-width: 31.25em){
   .body-footer__menus {
@@ -1041,13 +1052,13 @@ textarea.input {
   }
 }@media (width < 20em){
   .discover-card__content {
-    gap: 1.25rem;
+    gap: 1.625rem;
   }
   .titleblock__title {
     font-size: 2.25rem;
   }
   .titleblock__title--big {
-    font-size: 2.25rem;
+    font-size: 1.875rem;
   }
   .header__blockbutton {
     gap: 0.125rem;
@@ -1101,13 +1112,13 @@ textarea.input {
   }
 }@media (width >= 20em) and (width < 76.625em){
   .discover-card__content {
-    gap: clamp( 1.25rem , 0.940949227375rem  +  1.5452538631vw , 2.125rem );
+    gap: clamp( 1.625rem , 1.4483995585rem  +  0.8830022075vw , 2.125rem );
   }
   .titleblock__title {
     font-size: clamp( 2.25rem , 1.98509933775rem  +  1.3245033113vw , 3rem );
   }
   .titleblock__title--big {
-    font-size: clamp( 2.25rem , 1.63189845474375rem  +  3.0905077263vw , 4rem );
+    font-size: clamp( 1.875rem , 1.12444812361875rem  +  3.7527593819vw , 4rem );
   }
   .header__blockbutton {
     gap: clamp( 0.125rem , 0.0146247240625rem  +  0.5518763797vw , 0.4375rem );

diff --git a/index.html b/index.html
@@ -12,8 +12,8 @@
 		<link rel="preload" href="./assets/fonts/Poppins-bold.woff2" as="font" type="font/woff2" crossorigin="anonymous">
 		<link rel="shortcut icon" href="./assets/img/favicon.ico">
 		<title>Home Page</title>
-		<script type="module" crossorigin="" src="./js/index.min.js?v=1793852861542"></script>
-		<link rel="stylesheet" crossorigin="" href="./css/index.min.css?v=1793852861542">
+		<script type="module" crossorigin="" src="./js/index.min.js?v=1793898343715"></script>
+		<link rel="stylesheet" crossorigin="" href="./css/index.min.css?v=1793898343715">
 	</head>
 	<body>
 		<div class="wrapper">

diff --git a/sendmail/phpmailer/language/phpmailer.lang-ar.php b/sendmail/phpmailer/language/phpmailer.lang-ar.php
@@ -1,0 +1,27 @@
+<?php
+/**
+ * Arabic PHPMailer language file: refer to English translation for definitive list
+ * @package PHPMailer
+ * @author bahjat al mostafa <bahjat983@hotmail.com>
+ */
+
+$PHPMAILER_LANG['authenticate']         = 'خطأ SMTP : لا يمكن تأكيد الهوية.';
+$PHPMAILER_LANG['connect_host']         = 'خطأ SMTP: لا يمكن الاتصال بالخادم SMTP.';
+$PHPMAILER_LANG['data_not_accepted']    = 'خطأ SMTP: لم يتم قبول المعلومات .';
+$PHPMAILER_LANG['empty_message']        = 'نص الرسالة فارغ';
+$PHPMAILER_LANG['encoding']             = 'ترميز غير معروف: ';
+$PHPMAILER_LANG['execute']              = 'لا يمكن تنفيذ : ';
+$PHPMAILER_LANG['file_access']          = 'لا يمكن الوصول للملف: ';
+$PHPMAILER_LANG['file_open']            = 'خطأ في الملف: لا يمكن فتحه: ';
+$PHPMAILER_LANG['from_failed']          = 'خطأ على مستوى عنوان المرسل : ';
+$PHPMAILER_LANG['instantiate']          = 'لا يمكن توفير خدمة البريد.';
+$PHPMAILER_LANG['invalid_address']      = 'الإرسال غير ممكن لأن عنوان البريد الإلكتروني غير صالح: ';
+$PHPMAILER_LANG['mailer_not_supported'] = ' برنامج الإرسال غير مدعوم.';
+$PHPMAILER_LANG['provide_address']      = 'يجب توفير عنوان البريد الإلكتروني لمستلم واحد على الأقل.';
+$PHPMAILER_LANG['recipients_failed']    = 'خطأ SMTP: الأخطاء التالية ' .
+                                          'فشل في الارسال لكل من : ';
+$PHPMAILER_LANG['signing']              = 'خطأ في التوقيع: ';
+$PHPMAILER_LANG['smtp_connect_failed']  = 'SMTP Connect() غير ممكن.';
+$PHPMAILER_LANG['smtp_error']           = 'خطأ على مستوى الخادم SMTP: ';
+$PHPMAILER_LANG['variable_set']         = 'لا يمكن تعيين أو إعادة تعيين متغير: ';
+$PHPMAILER_LANG['extension_missing']    = 'الإضافة غير موجودة: ';

diff --git a/sendmail/phpmailer/language/phpmailer.lang-af.php b/sendmail/phpmailer/language/phpmailer.lang-af.php
@@ -1,0 +1,25 @@
+<?php
+/**
+ * Afrikaans PHPMailer language file: refer to English translation for definitive list
+ * @package PHPMailer
+ */
+
+$PHPMAILER_LANG['authenticate']         = 'SMTP-fout: kon nie geverifieer word nie.';
+$PHPMAILER_LANG['connect_host']         = 'SMTP-fout: kon nie aan SMTP-verbind nie.';
+$PHPMAILER_LANG['data_not_accepted']    = 'SMTP-fout: data nie aanvaar nie.';
+$PHPMAILER_LANG['empty_message']        = 'Boodskapliggaam leeg.';
+$PHPMAILER_LANG['encoding']             = 'Onbekende kodering: ';
+$PHPMAILER_LANG['execute']              = 'Kon nie uitvoer nie: ';
+$PHPMAILER_LANG['file_access']          = 'Kon nie lêer oopmaak nie: ';
+$PHPMAILER_LANG['file_open']            = 'Lêerfout: Kon nie lêer oopmaak nie: ';
+$PHPMAILER_LANG['from_failed']          = 'Die volgende Van adres misluk: ';
+$PHPMAILER_LANG['instantiate']          = 'Kon nie posfunksie instansieer nie.';
+$PHPMAILER_LANG['invalid_address']      = 'Ongeldige adres: ';
+$PHPMAILER_LANG['mailer_not_supported'] = ' mailer word nie ondersteun nie.';
+$PHPMAILER_LANG['provide_address']      = 'U moet ten minste een ontvanger e-pos adres verskaf.';
+$PHPMAILER_LANG['recipients_failed']    = 'SMTP-fout: Die volgende ontvangers het misluk: ';
+$PHPMAILER_LANG['signing']              = 'Ondertekening Fout: ';
+$PHPMAILER_LANG['smtp_connect_failed']  = 'SMTP-verbinding () misluk.';
+$PHPMAILER_LANG['smtp_error']           = 'SMTP-bediener fout: ';
+$PHPMAILER_LANG['variable_set']         = 'Kan nie veranderlike instel of herstel nie: ';
+$PHPMAILER_LANG['extension_missing']    = 'Uitbreiding ontbreek: ';
